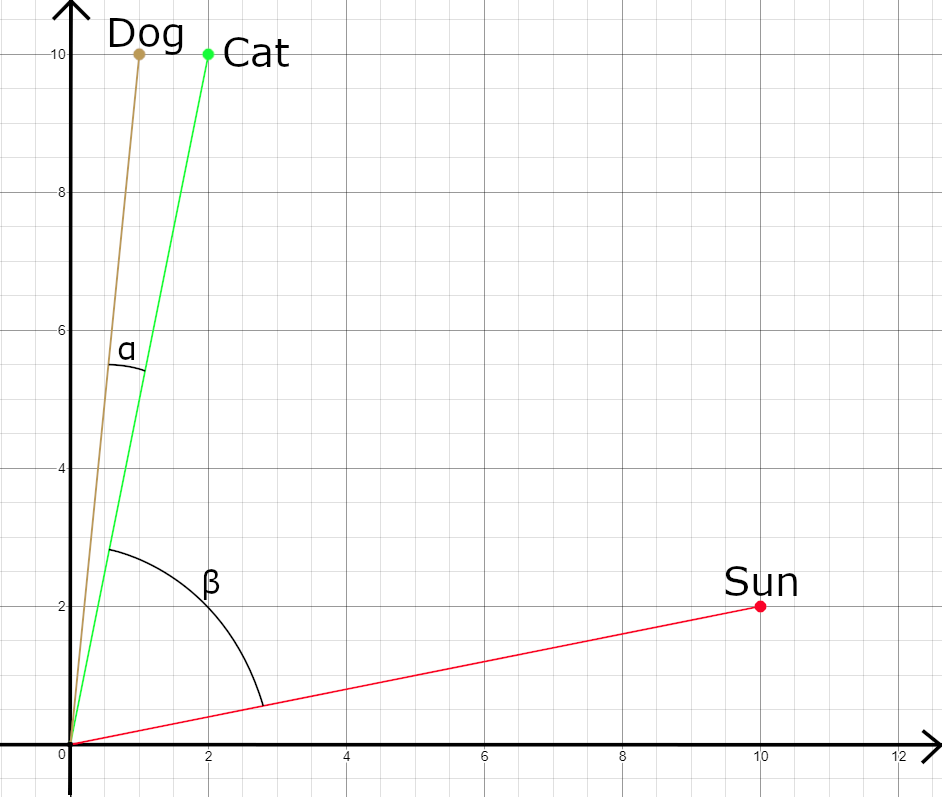
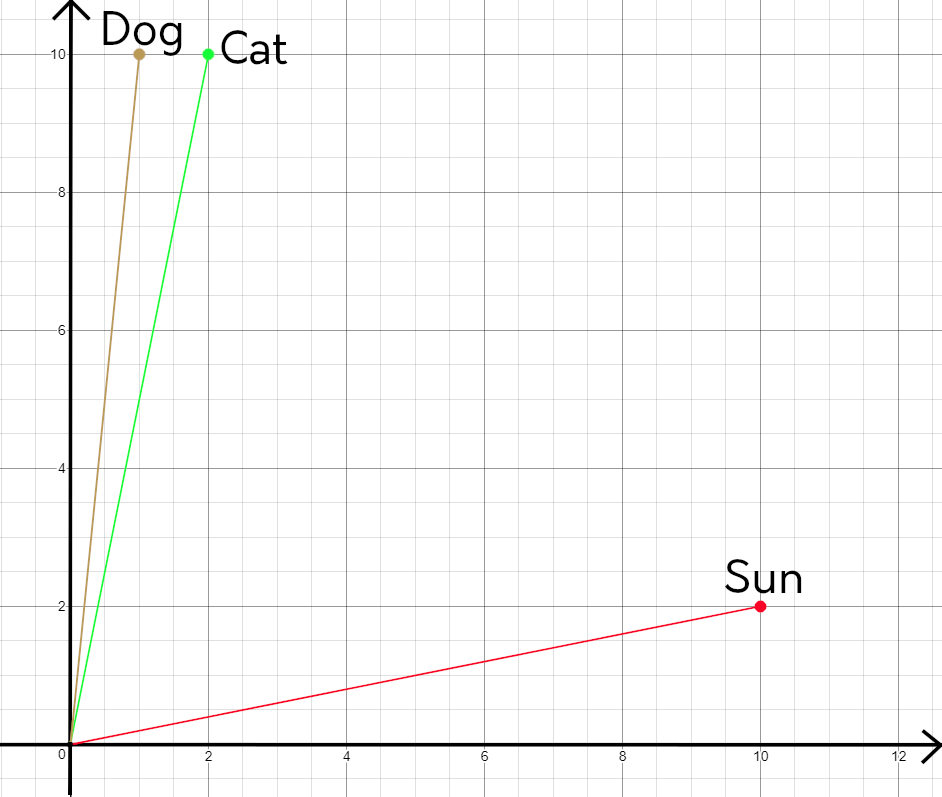
Changed some pics, deleted some, corrected typos of nlp, gave references for WE and IWE with better align for pic in IWE

diff --git a/wordembeddings.html b/wordembeddings.html
@@ -99,7 +99,8 @@
                                         represent directions and magnitudes in space. This is needed as most machine
                                         learning algorithms and deep learning architecture are unable to receive strings
                                         as input thus word embeddings replace these words as numbers that these programs
-                                        can take as inputs and process.
+                                        can take as inputs and process. 
+                                        <a href="#AnalyticsVidhya" class="piyaLink"><sup>[1]</sup></a>
                                     </p>
                                     <hr>
                                 </div>
@@ -143,6 +144,15 @@
                     <p class="info">The dot product formula used to calculate the similarity of two vectors
                         $$\cos \theta = \frac{u \cdot v}{\lvert u \rvert \lvert v \rvert}$$</p>
                     <br>
+                    <div class="container-fluid" style="text-align: center">
+                        <p class="info">
+                            In the diagrams below ‘dog’, ‘cat’ and ‘sun’ are represented as vectors on a 2D 
+                            Cartesian plane.
+                            The cosine value of α is 0.995 thus close to 1 while the value of β is 0.384 which 
+                            is closer to 0, thus representing the similarity or difference of the words
+                            <br><br>
+                        </p>
+                    </div>
                     <div class="container-fluid">
                         <div class="row">
                             <div class="col-sm-6">
@@ -159,16 +169,13 @@
                 </div>
                 <div class="container-fluid" style="text-align: center">
                     <p class="info">
-                        In the diagram above ‘dog’, ‘cat’ and ‘sun’ are represented as vectors on a 2D Cartesian plane.
-                        The
-                        cosine value of α is 0.995 thus close to 1 while the value of β is 0.384 which is closer to 0,
-                        thus
-                        representing the similarity or difference of the words
-                        <br><br>
-                        Therefore, when large datasets are provided similar words will group together, thus forming
+                        <br>
+                        Therefore, when large datasets are provided similar words they will group together, thus forming
                         different groups of words that are closely related such as a group of countries or animals.
+                        <a href="#TensorFlow" class="piyaLink"><sup>[2]</sup></a>
+                        <br>
                         Word embeddings can also represent the relationship of words such as their tenses or male-female
-                        relationship
+                        relationship <a href="#TheMorningPaper" class="piyaLink"><sup>[3]</sup></a>
                         <br>
                     <hr>
                     <br>
@@ -202,15 +209,36 @@
                     </div>
                     <br>
                     <hr>
+                    <h3 class="subheading"><b>FURTHER READING</b></h3>
                     <p class="info">
-                        Further reading on the various types of word embeddings and a deeper explanation on the implementations of it can be found on these links
+                        Further reading on the various types of word embeddings and a deeper explanation on the implementations of it can be found on these links:
                         <br><br>
                         <a href="https://www.analyticsvidhya.com/blog/2017/06/word-embeddings-count-word2veec/" class="piyaLink">https://www.analyticsvidhya.com/blog/2017/06/word-embeddings-count-word2veec/</a>.
+                        <br>
                         <a href="https://blog.acolyer.org/2016/04/21/the-amazing-power-of-word-vectors/" class="piyaLink">https://blog.acolyer.org/2016/04/21/the-amazing-power-of-word-vectors/</a>.
+                        <br>
                         <a href="https://www.tensorflow.org/tutorials/representation/word2vec" class="piyaLink">https://www.tensorflow.org/tutorials/representation/word2vec</a>.
+                        <br><br>
                     </p>
-                    <hr>
+                    <hr>    
                 </div>
+                <h3 class="subheading"><b>REFERENCES</b></h3>
+                <p class="info">
+                    <a id="AnalyticsVidhya">[1] </a>
+                    NSS. "Intuitive Understanding of Word Embeddings: Count Vectors to Word2Vec" Analytics Vidhya, 
+                        4 June 2017, 
+                        <a href="https://www.analyticsvidhya.com/blog/2017/06/word-embeddings-count-word2veec/" class="piyaLink">https://www.analyticsvidhya.com/blog/2017/06/word-embeddings-count-word2veec/</a>.
+                    <br>
+                    <a id="TensorFlow">[2] </a>
+                    Martin Abadi et al. "Vector Representations of Words | TensorFlow." TensorFlow, 
+                        <a href="https://www.tensorflow.org/tutorials/representation/word2vec" class="piyaLink">https://www.tensorflow.org/tutorials/representation/word2vec</a>.
+                    <br>
+                    <a id="TheMorningPaper">[3] </a>
+                    Adrian Coyler. "The Amazing Power of Word Vectors." The Morning Paper, 21 Apr. 2016, 
+                        <a href="https://blog.acolyer.org/2016/04/21/the-amazing-power-of-word-vectors/" class="piyaLink">https://blog.acolyer.org/2016/04/21/the-amazing-power-of-word-vectors/</a>.
+                    <br><br>
+                </p>
+                <hr>
             </div>
             <h4 id="teamTitle">OUR TEAM</h4>
             <div class="container-fluid">

diff --git a/nlp.html b/nlp.html
@@ -93,12 +93,9 @@
                                 <div class="col-sm-12">
                                     <hr>
                                     <p class="summary">
-                                        So what is NLP? Natural Language Proccessing! It mainly involves the
+                                        So what is NLP? Natural Language Processing! It mainly involves the
                                         construction of computational algorithms that can process and represent human
-                                        language. A more recent and well known use is Amazon’s voice assistant Alexa.So
-                                        what is NLP? Natural Language Proccessing! It mainly involves the construction
-                                        of computational algorithms that can process and represent human language. A
-                                        more recent and well known use is Amazon’s voice assistant Alexa.
+                                        language. A more recent and well known use is Amazon’s voice assistant Alexa.
                                     </p>
                                     <hr>
                                 </div>
@@ -110,19 +107,19 @@
                 <hr>
                 <h3 class="subheading"><b>A Brief History of NLP</b></h3><br>
                 <p class="info" id="researchParagraph">
-                    Arguably first major advancment was the birth of Collosus, the computer created by Sir Alan Turing.
+                    Arguably first major advancement was the birth of Colossus, the computer created by Sir Alan Turing.
                     This machine was designed to crack the messages encoded by the German Enigma machine. It was with
-                    the threat of nuclear war after WWII that NLP developped further. This involved the creation of
-                    automated translation of Russian test to english.
+                    the threat of nuclear war after WWII that NLP developed further. This involved the creation of
+                    automated translation of Russian test to English.
                     <br><br>
 
                     The early methods during the 1950s involved using language rules, computational linguistics and
-                    statistics. Coming towards the end of the 20th century, methods developped to Corpus based
-                    statistics. This method looked at using statictics including normalised frequency and type-token
+                    statistics. Coming towards the end of the 20th century, methods developed to Corpus based
+                    statistics. This method looked at using statistics including normalised frequency and type-token
                     ratio. A token is an instance of a wordform in the text. By examining the ratio of the number of
                     types of token by the total number of tokens gives a measure of the range of vocabulary used in the
                     text. These statistics were then used in significance tests with adjacent words and collections to
-                    see a particular words had similar statistcs in a different reference text. Depending on the
+                    see particular words had similar statistics in a different reference text. Depending on the
                     significance of the result, a keyword could then be extracted.
                     <br><br>
 
@@ -134,7 +131,7 @@
                 <p class="info">
                     What is not more commonly understood by NLP, is that the subject also involves processing Speech and
                     other forms of language, for example processing sign language, and even outputting language having
-                    interpretted speech. More technically, NLP systems understand Natural Language, execute requested
+                    interpreted speech. More technically, NLP systems understand Natural Language, execute requested
                     tasks and produce Natural Language.
                 </p>
                 <br>

diff --git a/interpwordembeddings.html b/interpwordembeddings.html
@@ -106,13 +106,14 @@
           The creation of interpretable word embeddings is done by associating each dimension of the matrix representation of the words with a particular meaning.
           The embeddings should have a reasonable size so the calculations on these matrices would not be too taxing but still be very expressive in representing the contexts of the words.
           This should also be interpretable.
-          <br>
+          <br><br>
           For word embeddings to be interpretable:
           <ul>
             <li>It needs to be sparse</li>
             <li>Have few large values in a row or column</li>
             <li>Values are non-negative</li>
           </ul>
+          <br>
           Currently the constructions of interpretable word embeddings are split into two methods:
         </p>
         <div class="container-fluid">
@@ -142,9 +143,10 @@
         </div>
         <hr>
         <h3 class="subheading"><b>EXAMPLE</b></h3><br>
-        <div class="container-fluid">
+        <div class="container-fluid" style="text-align: center">
             <p class="info">
               Using Non-Negative Sparse Embedding yields the following representation for the word 'tear':
+              <a href="#NNSE" class="piyaLink"><sup>[1]</sup></a>
             </p>
             <table id="interpretExampleTable">
               <tr>
@@ -164,8 +166,37 @@
               <br>
               This gives the following graph interpretation of giving enough context to the word 'tear':
             </p>
-            <img class="img-fluid" src="Content/Images/vectorsContext.PNG" alt="Extra context representation for 'tear'"/>
-        </div>
+            <div class="row">
+              <div class="col-sm-2"></div>
+              <div class="col-sm-8">
+                <img class="img-fluid" src="Content/Images/vectorsContext.PNG" alt="Extra context representation for 'tear'"/>
+              </div>
+              <div class="col-sm-2"></div>
+            </div>
+            <br>
+            <hr>
+              <h3 class="subheading"><b>FURTHER READING</b></h3>
+              <p class="info">
+                Further reading on interpretable word embeddings and a deeper explanation on the implementations of it can be found on these links:
+                <br><br>
+                <a href="http://aclweb.org/anthology/W18-5442" class="piyaLink">http://aclweb.org/anthology/W18-5442</a>.
+                <br>
+                <a href="http://www.cs.cmu.edu/~bmurphy/NNSE/" class="piyaLink">http://www.cs.cmu.edu/~bmurphy/NNSE/</a>.
+                <br>
+                <a href="https://arxiv.org/pdf/1711.00331.pdf" class="piyaLink">https://arxiv.org/pdf/1711.00331.pdf</a>.
+                <br><br>
+              </p>
+            <hr>
+            <h3 class="subheading"><b>REFERENCES</b></h3>
+              <br>
+              <p class="info">
+                 <a id="NNSE">[1] </a>
+                Brian Murphy et al. "Non-Negative Sparse Embedding" Machine Learning Department, Carnegie Mellon 
+                University,
+                  <a href="http://www.cs.cmu.edu/~bmurphy/NNSE/" class="piyaLink">http://www.cs.cmu.edu/~bmurphy/NNSE/</a>.
+                 <br><br>
+               </p>
+          </div>
       </div>
       <hr>
       <h4 id="teamTitle">OUR TEAM</h4>
